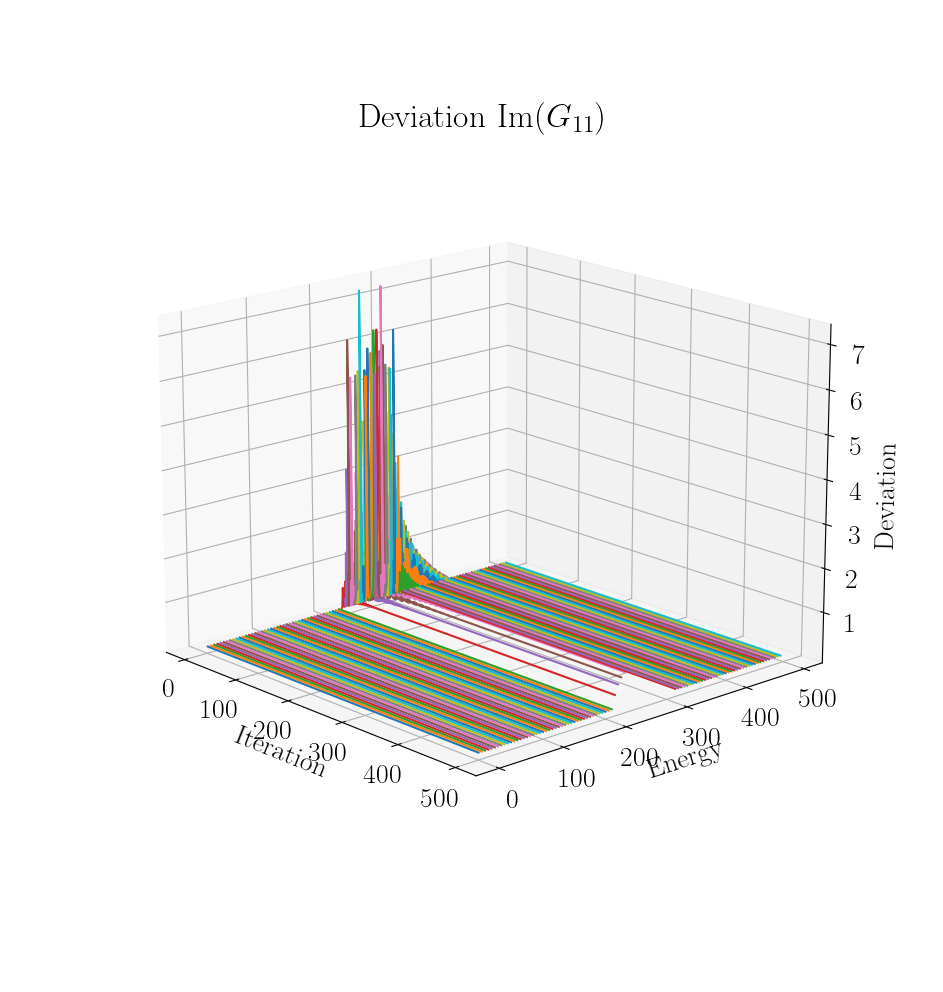
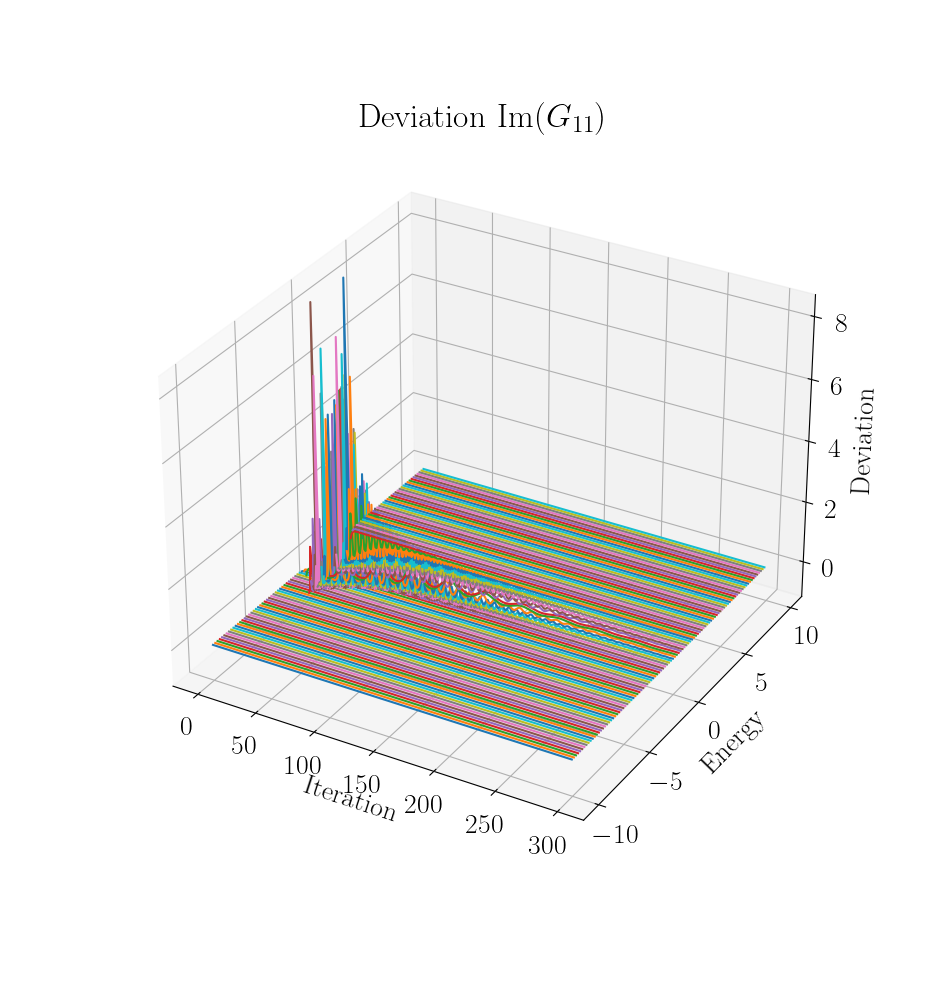
added convergence plots

diff --git a/code/Linear_Chain_Matrix/convergence_linear_chain_heatmap.py b/code/Linear_Chain_Matrix/convergence_linear_chain_heatmap.py
@@ -44,7 +44,7 @@ g_11 = np.array([calculate_g(value) for value in E])
 
 def calculate_Green(g_11, conv):
     G_11 = g_11
-    for n in range(500):
+    for n in range(300):
         G_11 = np.matmul(inv((np.identity(2) - multi_dot([g_11, t_mat, G_11, t_dag]))), g_11)
         conv = np.append(conv, G_11[0][0])
     return (G_11, conv)
@@ -52,24 +52,23 @@ def calculate_Green(g_11, conv):
 Green = np.zeros(len(g_11)) # Stores values G_11(E)
 Green = np.array([calculate_Green(value, conv) for value in g_11], dtype=object)
 
-# make 3d axes
-#fig = plt.figure()
-#ax = fig.gca()
+iteration = np.arange(0, 300, 1)
+x_axis = np.array([energy*np.ones(300) for energy in E])
 
-iteration = np.arange(0, 500, 1)
-x_axis = np.ones(500)
-#print(Green[0][1])
-#print(Green[0][0][0])
 for i in range(len(Green)):
-    deviation = np.array([np.abs(value.imag) for value in Green[i][1]])
+    deviation = np.array([np.abs(value.imag-Green[i][0][0][0].imag) for value in Green[i][1]])
     #print(deviation)
-    plt.scatter(iteration, x_axis+5*i, cmap='cool', c=deviation)
+    plot = plt.scatter(iteration, x_axis[i], cmap='hot', c=deviation, alpha=0.8)
+"""
+pro energie gibt es 300 iterationen:
+(energy, iteration)
 
-
+for every energy point I need to make 300 energies
+"""
 # make labels
 plt.title('Deviation Im($G_{11}$)')
 plt.xlabel('Iteration')
 plt.ylabel('Energy')
 # plt.zlabel('Deviation')
-
+plt.colorbar(plot)
 plt.show()

diff --git a/code/Linear_Chain_Matrix/convergence_linear_chain.py b/code/Linear_Chain_Matrix/convergence_linear_chain.py
@@ -44,7 +44,7 @@ g_11 = np.array([calculate_g(value) for value in E])
 
 def calculate_Green(g_11, conv):
     G_11 = g_11
-    for n in range(500):
+    for n in range(300):
         G_11 = np.matmul(inv((np.identity(2) - multi_dot([g_11, t_mat, G_11, t_dag]))), g_11)
         conv = np.append(conv, G_11[0][0])
     return (G_11, conv)
@@ -56,14 +56,12 @@ Green = np.array([calculate_Green(value, conv) for value in g_11], dtype=object)
 fig = plt.figure()
 ax = fig.gca(projection='3d')
 
-iteration = np.arange(0, 500, 1)
-x_axis = np.ones(500)
-print(Green[0][1])
-print(Green[0][0][0])
+iteration = np.arange(0, 300, 1)
+x_axis = np.array([energy*np.ones(300) for energy in E])
+
 for i in range(len(Green)):
-    deviation = np.array([np.abs(value.imag-Green[0][0][0][0].imag) for value in Green[i][1]])
-    print(deviation)
-    ax.plot(iteration, x_axis+5*i, deviation)
+    deviation = np.array([np.abs(value.imag/Green[i][0][0][0].imag)-1 for value in Green[i][1]])
+    ax.plot(iteration, x_axis[i], deviation)
 
 
 # make labels
